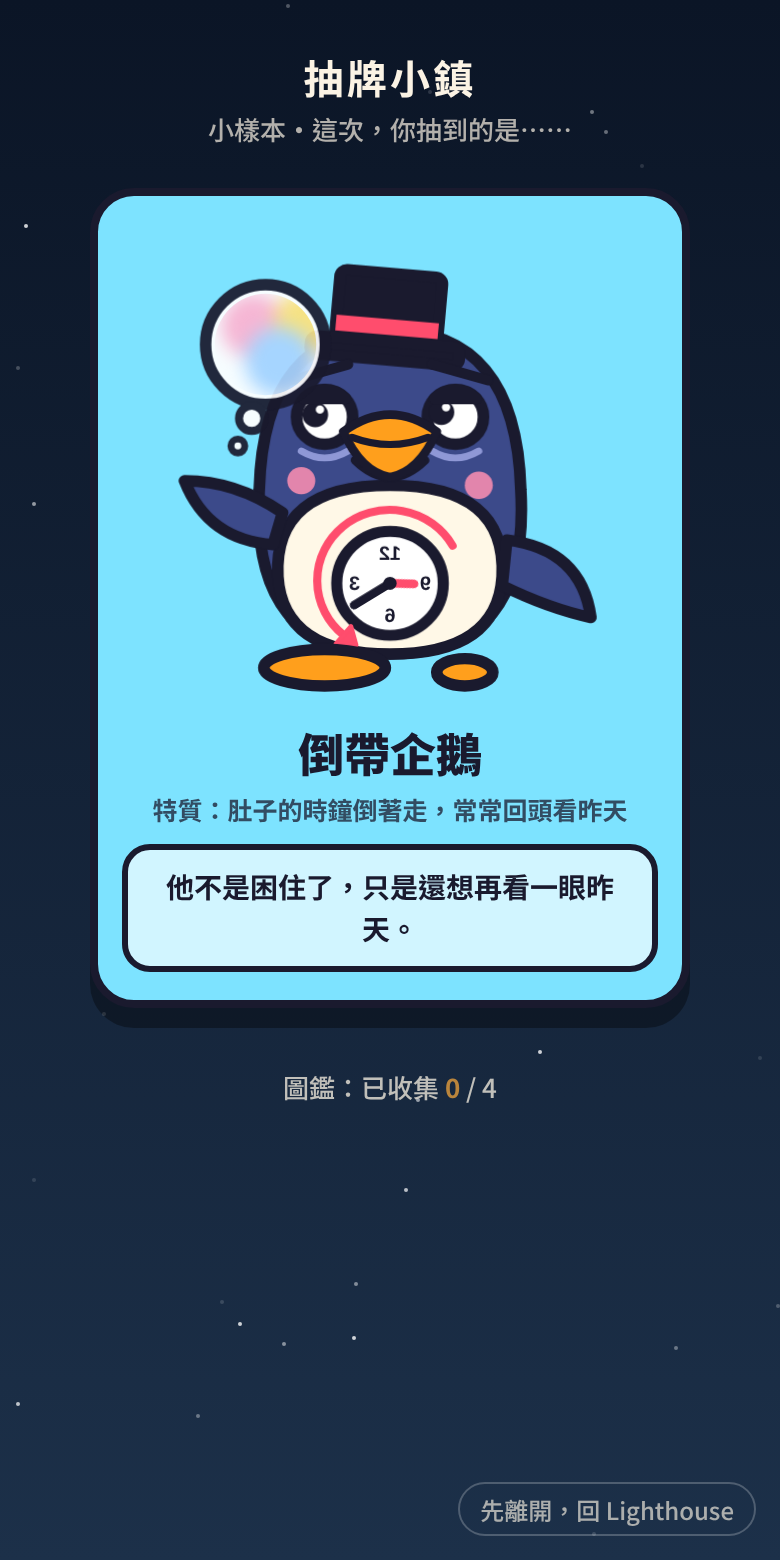
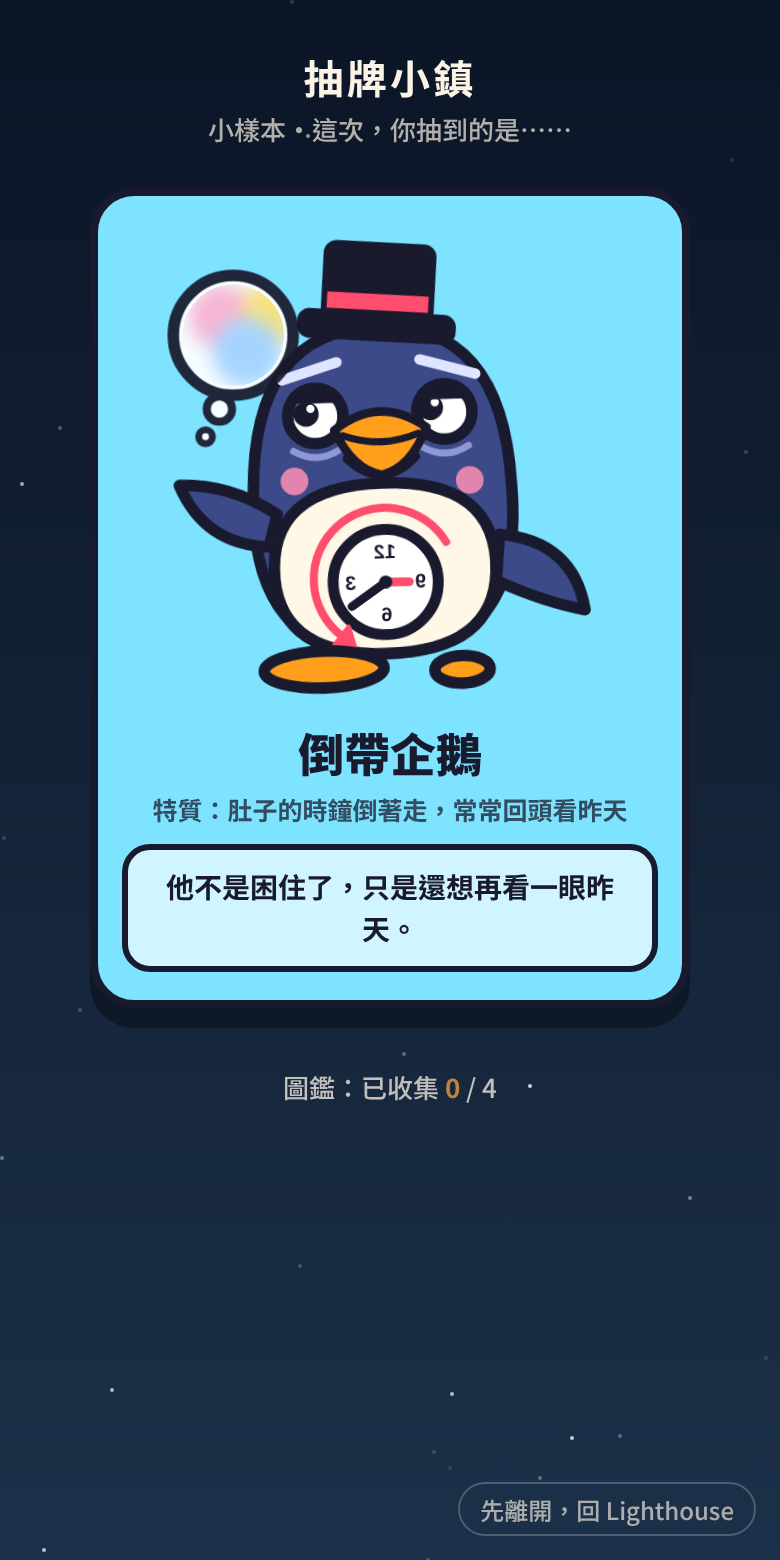
Lighthouse: 抽牌小樣本，企鵝帽子抬高、眉毛提亮、泡泡左移
Claude-Session: https://claude.ai/code/session_01QMXbFy7GatcecM2zJaJAS8

Changed region(s): [[0.2154, 0.1538, 0.7692, 0.4615]]

diff --git a/lighthouse/cards-sample.html b/lighthouse/cards-sample.html
@@ -156,12 +156,12 @@ const ART = {
   /* 倒帶企鵝：肚子的時鐘倒著走，總是回頭看昨天 */
   penguin: `<svg viewBox="0 -16 200 216"><g class="wob">
     <path d="M100 30 Q154 30 156 100 Q160 172 100 172 Q40 172 44 100 Q46 30 100 30Z" fill="#3c4a8a" ${o}/>
-    <g transform="translate(-2 9) rotate(5 100 28)"><rect x="78" y="-4" width="44" height="34" rx="3" fill="#1a1a2e" ${o}/><rect x="68" y="26" width="64" height="8" rx="3" fill="#1a1a2e" ${o}/><rect x="78" y="16" width="44" height="7" fill="#ff4d6d"/></g>
+    <g transform="translate(0 0) rotate(5 100 28)"><rect x="78" y="-4" width="44" height="34" rx="3" fill="#1a1a2e" ${o}/><rect x="68" y="26" width="64" height="8" rx="3" fill="#1a1a2e" ${o}/><rect x="78" y="16" width="44" height="7" fill="#ff4d6d"/></g>
     <path d="M100 98 Q150 98 148 138 Q146 172 100 172 Q54 172 52 138 Q50 98 100 98Z" fill="#fff8e7" ${o}/>
     <g class="blink"><circle cx="72" cy="68" r="12" fill="#fff" ${o}/><circle cx="68" cy="67" r="5.5" fill="${INK}"/><circle cx="70" cy="64.8" r="1.8" fill="#fff"/></g>
     <g class="blink"><circle cx="128" cy="68" r="12" fill="#fff" ${o}/><circle cx="122" cy="66" r="5.5" fill="${INK}"/><circle cx="124" cy="63.8" r="1.8" fill="#fff"/></g>
     <path d="M63.1 60 A12 12 0 0 1 80.9 60 Z" fill="#3c4a8a" ${o}/><path d="M119.1 60 A12 12 0 0 1 136.9 60 Z" fill="#3c4a8a" ${o}/>
-    <path d="M58 52 L82 45 M118 45 L142 52" fill="none" stroke="${INK}" stroke-width="4.5" stroke-linecap="round"/>
+    <path d="M58 52 L82 45 M118 45 L142 52" fill="none" stroke="#dfe4ff" stroke-width="4.5" stroke-linecap="round"/>
     <path d="M62 83 Q72 89 82 83 M118 83 Q128 89 138 83" fill="none" stroke="#8f98d6" stroke-width="3" stroke-linecap="round"/>
     <circle cx="62" cy="96" r="6" fill="#ff8fb1" opacity=".85"/><circle cx="138" cy="98" r="6" fill="#ff8fb1" opacity=".85"/>
     <g transform="translate(100 82) scale(1.25) translate(-100 -82)"><path d="M88 86 Q100 98 112 86 Q100 90 88 86Z" fill="#ffc24d" stroke="${INK}" stroke-width="3" stroke-linejoin="round"/>
@@ -178,7 +178,7 @@ const ART = {
     <path d="M150 122 Q182 126 186 156 Q168 152 148 142Z" fill="#3c4a8a" ${o}/>
     <ellipse cx="72" cy="178" rx="26" ry="8" fill="#ff9f1c" ${o}/><ellipse cx="132" cy="180" rx="12" ry="6" fill="#ff9f1c" ${o}/>
     </g>
-    <g class="mem"><circle cx="46" cy="38" r="26" fill="#fff" ${o}/><circle cx="40" cy="70" r="5.5" fill="#fff" stroke="${INK}" stroke-width="3.5"/><circle cx="34" cy="82" r="3" fill="#fff" stroke="${INK}" stroke-width="3"/>
+    <g class="mem" transform="translate(-14 -4)"><circle cx="46" cy="38" r="26" fill="#fff" ${o}/><circle cx="40" cy="70" r="5.5" fill="#fff" stroke="${INK}" stroke-width="3.5"/><circle cx="34" cy="82" r="3" fill="#fff" stroke="${INK}" stroke-width="3"/>
     <clipPath id="memClip"><circle cx="46" cy="38" r="22"/></clipPath>
     <g clip-path="url(#memClip)" style="filter:blur(4px)"><circle class="mb1" cx="38" cy="32" r="14" fill="#ffb3d1"/><circle class="mb2" cx="56" cy="34" r="14" fill="#ffe27a"/><circle class="mb3" cx="46" cy="50" r="15" fill="#a9d4ff"/></g>
     </g>
